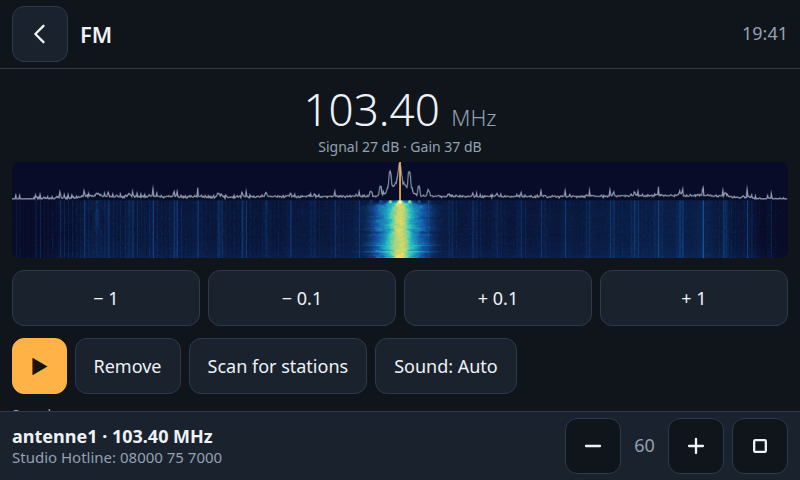
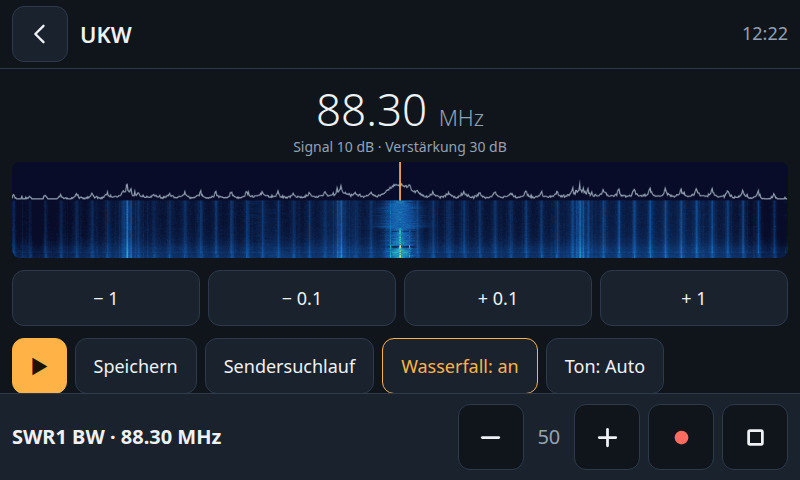
RadioKiosk-Beitrag: aktuelle Screenshots und Kacheln

diff --git a/_posts/2026-10-10-radiokiosk-weltempfaenger-mit-touchscreen.md b/_posts/2026-10-10-radiokiosk-weltempfaenger-mit-touchscreen.md
@@ -6,9 +6,9 @@ tags: [Amateurfunk, "Raspberry Pi"]
 ---
 
 Ein Raspberry Pi, ein Touch-Display und ein RTL-SDR-Stick: **RadioKiosk**
-macht daraus ein Radio für alles – Webradio, DAB+, UKW, Kurzwelle, Amateurfunk
-und eine Flugzeugkarte in einer Oberfläche, die sich mit dem Finger bedienen
-lässt.
+macht daraus ein Radio für alles – Webradio, DAB+, UKW, Kurzwelle, Amateurfunk,
+Flugzeugkarte, Podcasts und einiges mehr in einer Oberfläche, die sich mit dem
+Finger bedienen lässt.
 
 <figure class="abb klein">
   <a href="/assets/2026-10-10-radiokiosk-weltempfaenger-mit-touchscreen/01-radiokiosk-auf-dem-raspberry-pi.jpg">
@@ -29,36 +29,42 @@ nächsten startet.
 
 ## Die Kacheln
 
-- **Webradio:** Sendersuche über radio-browser.info, mit Senderlogos
-- **DAB+:** Suchlauf, Lauftext und die Bilder, die die Sender mitschicken
-- **UKW:** Stereo, Sendername und Radiotext (RDS), Suchlauf, Wasserfall
+- **Hören:** Webradio, DAB+ mit Lauftext und Senderbildern, UKW mit Stereo,
+  RDS und Wasserfall, Podcasts mit Vorschlägen aus den aktuellen Charts
 - **Empfänger:** freies Abstimmen in FM, AM und Seitenband – Kurzwelle,
-  Amateurfunk, PMR446, Freenet, CB; auf Kurzwelle steht dabei, wer gerade sendet
-- **Flugzeuge:** Live-Karte der Maschinen in der Umgebung (ADS-B)
-- **Dazu:** Bluetooth, Wetter, Wecker, Sleep-Timer, Aufnahme und Favoriten
-  quer über alle Quellen
+  Amateurfunk, PMR446, Freenet, CB
+- **Mitlesen:** Flugzeuge (ADS-B) und Schiffe (AIS) auf der Karte,
+  Funk-Thermometer und Wetterstationen der Umgebung auf 433 MHz
+- **Für Funkamateure:** Funkwetter mit Bandbedingungen und MUF, DX-Cluster und
+  POTA, ein QSO-Log mit ADIF-Export und eine Funk-Analyse, die einen Bereich
+  über eine gewählte Zeit beobachtet und berichtet, was auf Sendung war
+- **Dazu:** Nachrichten per RSS, Wetter mit Mondphase, Galerie, Timer,
+  Wecker, Aufnahme und Favoriten quer über alle Quellen
 
 <figure class="abb klein">
   <a href="/assets/2026-10-10-radiokiosk-weltempfaenger-mit-touchscreen/02-ukw-mit-wasserfall.jpg">
     <img src="/assets/2026-10-10-radiokiosk-weltempfaenger-mit-touchscreen/02-ukw-mit-wasserfall.jpg"
-         alt="UKW-Ansicht auf 103,40 MHz mit Spektrum und Wasserfall, darunter
-              Tasten zum Abstimmen und der Radiotext des Senders">
+         alt="UKW-Ansicht auf 88,30 MHz mit Spektrum und Wasserfall, darunter
+              Tasten zum Abstimmen; in der unteren Leiste der Sendername SWR1 BW">
   </a>
-  <figcaption>UKW mit Wasserfall und Radiotext.</figcaption>
+  <figcaption>UKW mit Wasserfall und Sendername.</figcaption>
 </figure>
 
 UKW und der freie Empfänger laufen über einen eigenen Empfänger in Python mit
 NumPy: Er demoduliert, dekodiert RDS und zeichnet den Wasserfall, ohne den
-Stick beim Umstimmen neu zu starten. DAB+ und ADS-B übernehmen bewährte
-Programme wie `welle-cli` und `readsb`.
+Stick beim Umstimmen neu zu starten. DAB+, ADS-B, AIS und die Funksensoren
+übernehmen bewährte Programme wie `welle-cli`, `readsb`, `rtl_ais` und
+`rtl_433`. Der Ruhebildschirm zeigt wahlweise die Uhr, eine Diashow, die
+neuesten Nachrichten oder den DX-Cluster.
 
 <figure class="abb klein">
-  <a href="/assets/2026-10-10-radiokiosk-weltempfaenger-mit-touchscreen/03-flugzeugkarte.jpg">
-    <img src="/assets/2026-10-10-radiokiosk-weltempfaenger-mit-touchscreen/03-flugzeugkarte.jpg"
-         alt="Karte von Südwestdeutschland mit einem Flugzeug in 37000 Fuß,
-              rechts die Liste der empfangenen Maschinen">
+  <a href="/assets/2026-10-10-radiokiosk-weltempfaenger-mit-touchscreen/03-funkaktivitaet-dx-cluster.jpg">
+    <img src="/assets/2026-10-10-radiokiosk-weltempfaenger-mit-touchscreen/03-funkaktivitaet-dx-cluster.jpg"
+         alt="Kachel Funkaktivität mit den Reitern DX-Cluster und POTA, einem
+              Bandfilter und einer Liste aktueller Meldungen mit Rufzeichen,
+              Frequenz und Kommentar">
   </a>
-  <figcaption>Flugzeuge über Süddeutschland, direkt vom Stick.</figcaption>
+  <figcaption>DX-Cluster: ein Tipp stimmt den Empfänger dorthin ab.</figcaption>
 </figure>
 
 ## Ausprobieren
@@ -70,9 +76,10 @@ curl -fsSL https://raw.githubusercontent.com/TechnikWeber/RadioKiosk/main/instal
 ```
 
 Mit `--kiosk` startet die Oberfläche nach jeder Anmeldung im Vollbild. Ohne
-Stick läuft das Webradio trotzdem; Kurzwelle braucht einen Stick, der unter
-24 MHz abstimmt, und eine lange Drahtantenne. Das Projekt steht bei Version
-0.10 – gebaut ist alles, aber noch nicht auf jeder Hardware ausprobiert.
+Stick läuft alles weiter, was keinen braucht; Kurzwelle braucht einen Stick,
+der unter 24 MHz abstimmt, und eine lange Drahtantenne. Das Projekt steht bei
+Version 0.16 – gebaut ist alles, aber noch nicht auf jeder Hardware
+ausprobiert.
 
 Code und Anleitung:
 [github.com/TechnikWeber/RadioKiosk](https://github.com/TechnikWeber/RadioKiosk)
